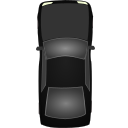
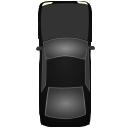
Fixed car movement and rendering

diff --git a/game_objects.py b/game_objects.py
@@ -18,7 +18,7 @@ class Car:
         return math.degrees(self.direction)
     
     def turn(self, degrees):
-        self.direction += math.radians(degrees)
+        self.direction += math.radians(degrees) * (self.speed / self.max_speed)
     
     def accelerate(self, amount):
         self.target_speed += amount
@@ -31,10 +31,13 @@ class Car:
     def update(self):
         self.pos.x += math.cos(self.direction) * self.speed
         self.pos.y += math.sin(self.direction) * self.speed
-        if self.target_speed > self.resistance:
+        if self.target_speed > self.resistance and self.target_speed > 0    :
             self.target_speed -= self.resistance
         elif self.target_speed > self.resistance and self.target_speed > 0:
             self.target_speed = 0
+        
+        elif self.target_speed < 0 and (self.target_speed + self.resistance < 0):
+            self.target_speed += self.resistance
         
         if self.target_speed > self.speed:
             self.speed += self.power
@@ -44,6 +47,10 @@ class Car:
     def get_render(self):
         surface = pygame.Surface(self.texture.get_size(), pygame.SRCALPHA)
         surface.set_colorkey((0, 0, 0))
-        img = utils.rotate(self.texture, self.texture.get_rect(), self.get_direction())[0]
-        surface.blit(img, utils.add_vectors(self.texture.get_size(), img.get_rect()))
+
+        img = utils.rotate(self.texture, self.texture.get_rect(), -self.get_direction()-90)[0]
+        rotated_img_center = img.get_rect().center
+        surface_center = self.texture.get_rect().center
+        surface.blit(img, utils.sub_vectors(surface_center, rotated_img_center))
+
         return surface

diff --git a/main.py b/main.py
@@ -29,9 +29,9 @@ def handle_movement():
     if is_pressed(pygame.K_w):
         objects[0].accelerate(1)
     if is_pressed(pygame.K_a):
-        objects[0].turn(5)
+        objects[0].turn(-4)
     if is_pressed(pygame.K_d):
-        objects[0].turn(-5)
+        objects[0].turn(4)
     if is_pressed(pygame.K_s):
         objects[0].accelerate(-1)
 
